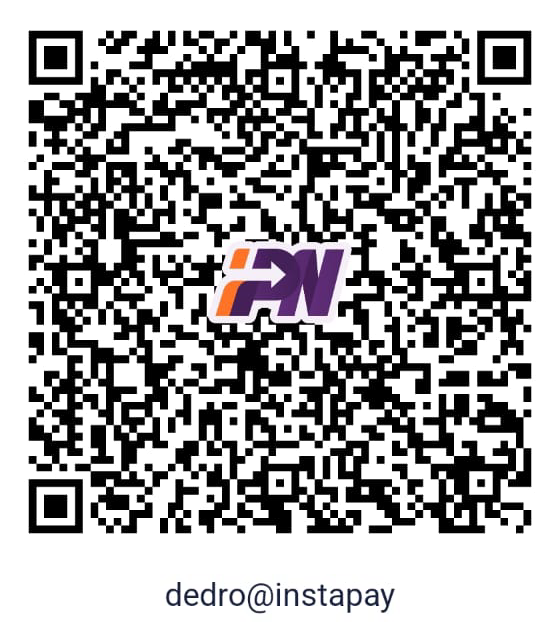
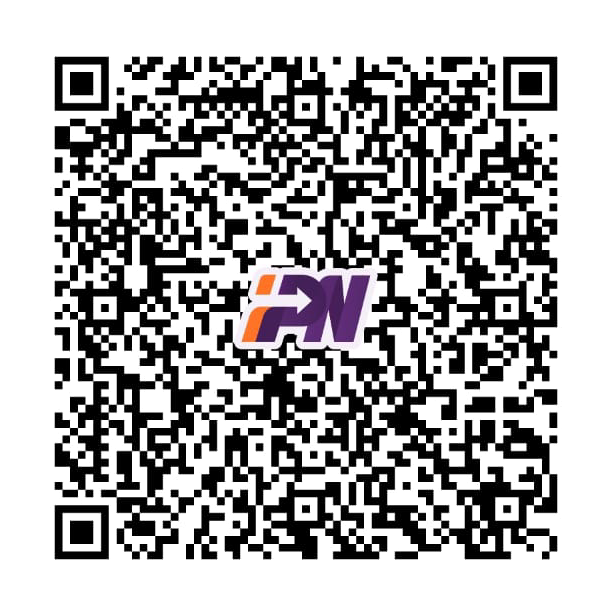
InstaPay: QR code only

diff --git a/product.html b/product.html
@@ -171,11 +171,10 @@
             <h3 data-t="of.ok">Thank you, we received your order</h3>
             <p data-t="of.okP">We will call you soon to confirm the price and the delivery date.</p>
             <div class="pay">
-              <img src="images/instapay-qr.png" alt="InstaPay QR code for dedro@instapay" width="140" height="160" loading="lazy">
+              <img src="images/instapay-qr.png" alt="InstaPay QR code" width="140" height="140" loading="lazy">
               <div>
                 <b data-t="pay.h">Pay with InstaPay</b>
-                <p data-t="pay.p">After we confirm the price, scan the code in the InstaPay app or send to this address:</p>
-                <p class="pay-id" dir="ltr">dedro@instapay</p>
+                <p data-t="pay.p">After we confirm the price, scan this code from the InstaPay app.</p>
               </div>
             </div>
           </div>
@@ -267,7 +266,7 @@
       'of.err': 'Please fill in all the fields.', 'of.errPhone': 'Please enter a valid phone number.',
       'of.errSend': 'The order did not go through. Please try again or message us on Instagram.',
       'of.alt': 'Prefer to chat?', 'of.altL': 'Message us on Instagram',
-      'pay.h': 'Pay with InstaPay', 'pay.p': 'After we confirm the price, scan the code in the InstaPay app or send to this address:'
+      'pay.h': 'Pay with InstaPay', 'pay.p': 'After we confirm the price, scan this code from the InstaPay app.'
     },
     ar: {
       'nav.collection': 'المنتجات', 'nav.order': 'طريقة الطلب', 'nav.faq': 'أسئلة متكررة', 'nav.cta': 'اسألنا',
@@ -286,7 +285,7 @@
       'of.err': 'من فضلك املا كل البيانات.', 'of.errPhone': 'من فضلك اكتب رقم موبايل صحيح.',
       'of.errSend': 'الطلب موصلش. جرب تاني أو ابعتلنا على انستجرام.',
       'of.alt': 'حابب تكلمنا الأول؟', 'of.altL': 'ابعتلنا على انستجرام',
-      'pay.h': 'ادفع بانستاباي', 'pay.p': 'بعد ما نأكد معاك السعر، امسح الكود من تطبيق انستاباي أو حوّل على العنوان ده:'
+      'pay.h': 'ادفع بانستاباي', 'pay.p': 'بعد ما نأكد معاك السعر، امسح الكود ده من تطبيق انستاباي.'
     }
   };
 

diff --git a/index.html b/index.html
@@ -133,7 +133,7 @@
       <div class="faq">
         <details><summary data-t="q1">How do I place an order?</summary><p data-t="a1">Open the piece you like, choose the size and fill in your details. We call you to confirm the price and the delivery date.</p></details>
         <details><summary data-t="q2">What sizes do you have?</summary><p data-t="a2">Every piece comes in small, medium and large. You will find the sizes on each product's page.</p></details>
-        <details><summary data-t="q6">How do I pay?</summary><p data-t="a6">After we confirm the price with you, you pay with InstaPay to dedro@instapay, or by scanning the code that appears after you send your order.</p></details>
+        <details><summary data-t="q6">How do I pay?</summary><p data-t="a6">After we confirm the price with you, you pay with InstaPay by scanning the code that appears after you send your order.</p></details>
         <details><summary data-t="q5">How long does an order take?</summary><p data-t="a5">It depends on the piece and the size. We confirm the date with you before work begins.</p></details>
       </div>
     </div>
@@ -177,7 +177,7 @@
     'fq.cap':'أسئلة متكررة','fq.h':'قبل ما تطلب',
     'q1':'أطلب إزاي؟','a1':'افتح القطعة اللي عاجباك، اختار المقاس واكتب بياناتك، وهنكلمك نأكد معاك السعر وميعاد التسليم.',
     'q2':'إيه المقاسات المتاحة؟','a2':'كل قطعة ليها 3 مقاسات: صغير ووسط وكبير. هتلاقي المقاسات في صفحة كل منتج.',
-    'q6':'أدفع إزاي؟','a6':'بعد ما نأكد معاك السعر، بتدفع بانستاباي على dedro@instapay، أو تمسح الكود اللي بيظهرلك بعد ما تبعت الطلب.',
+    'q6':'أدفع إزاي؟','a6':'بعد ما نأكد معاك السعر، بتدفع بانستاباي عن طريق الكود اللي بيظهرلك بعد ما تبعت الطلب.',
     'q5':'الطلب بياخد وقت قد إيه؟','a5':'على حسب القطعة والمقاس. بنتفق معاك على الميعاد قبل ما نبدأ.',
     'ft.by':'شغل إيد من m&g'
   };
